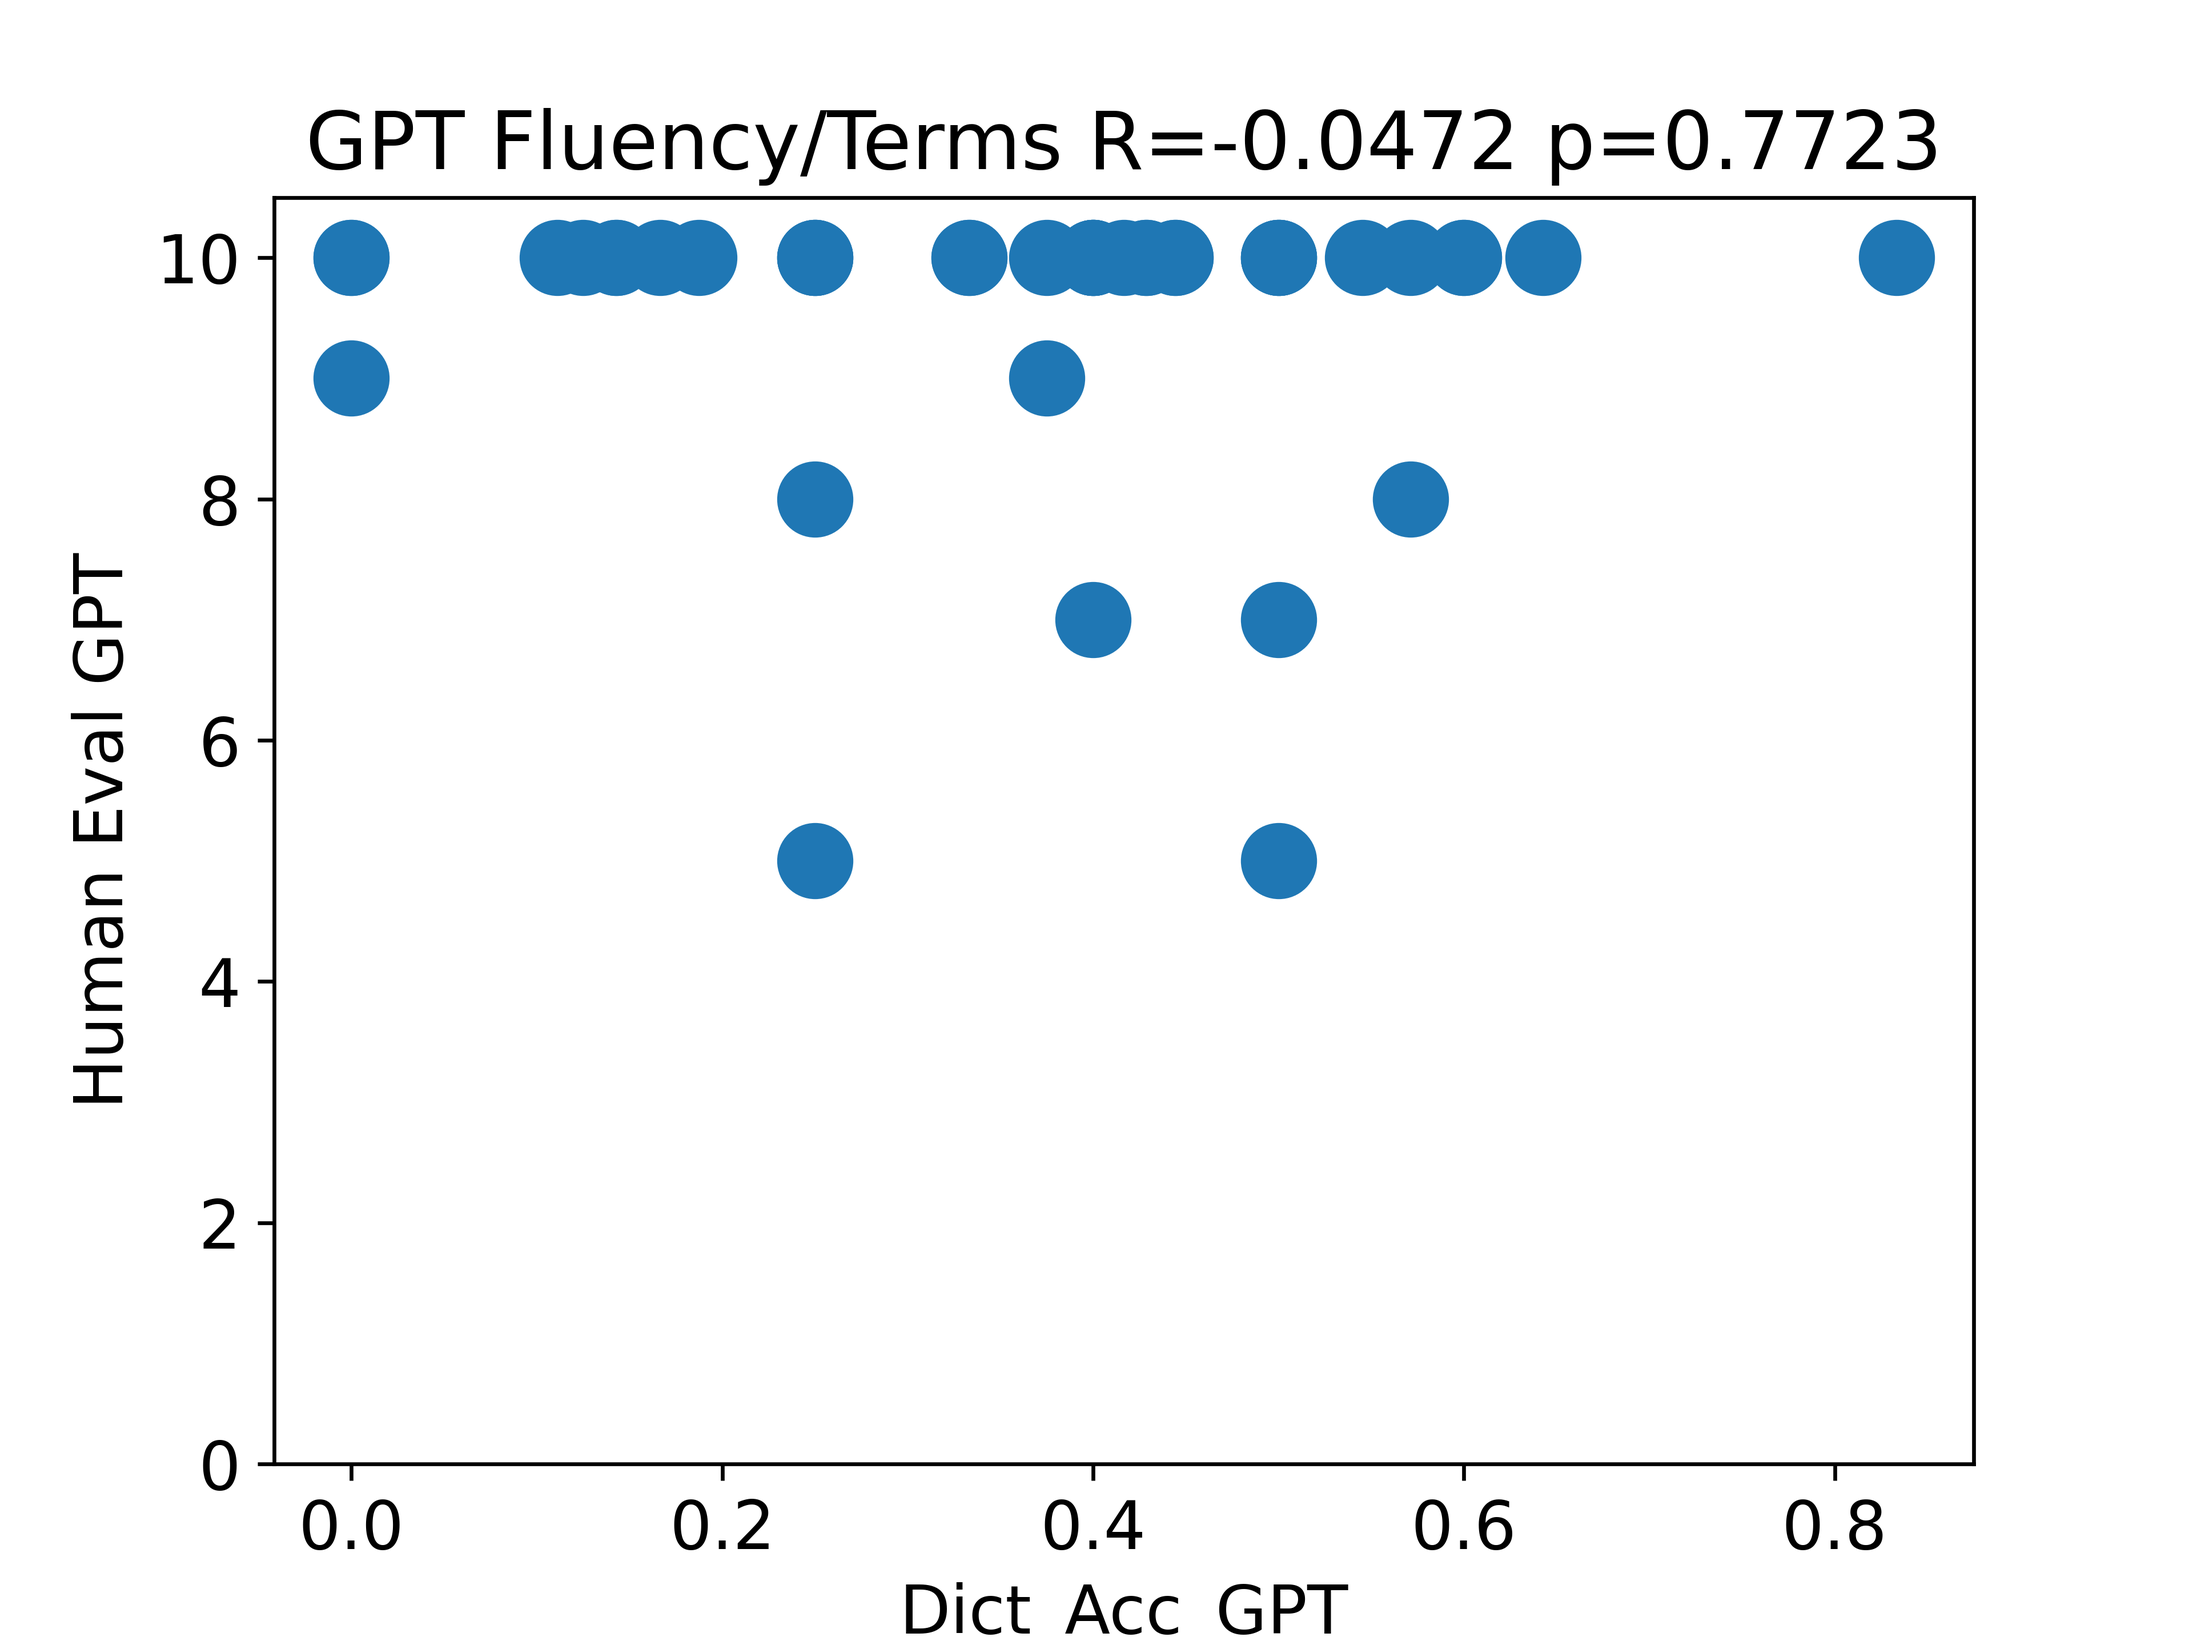
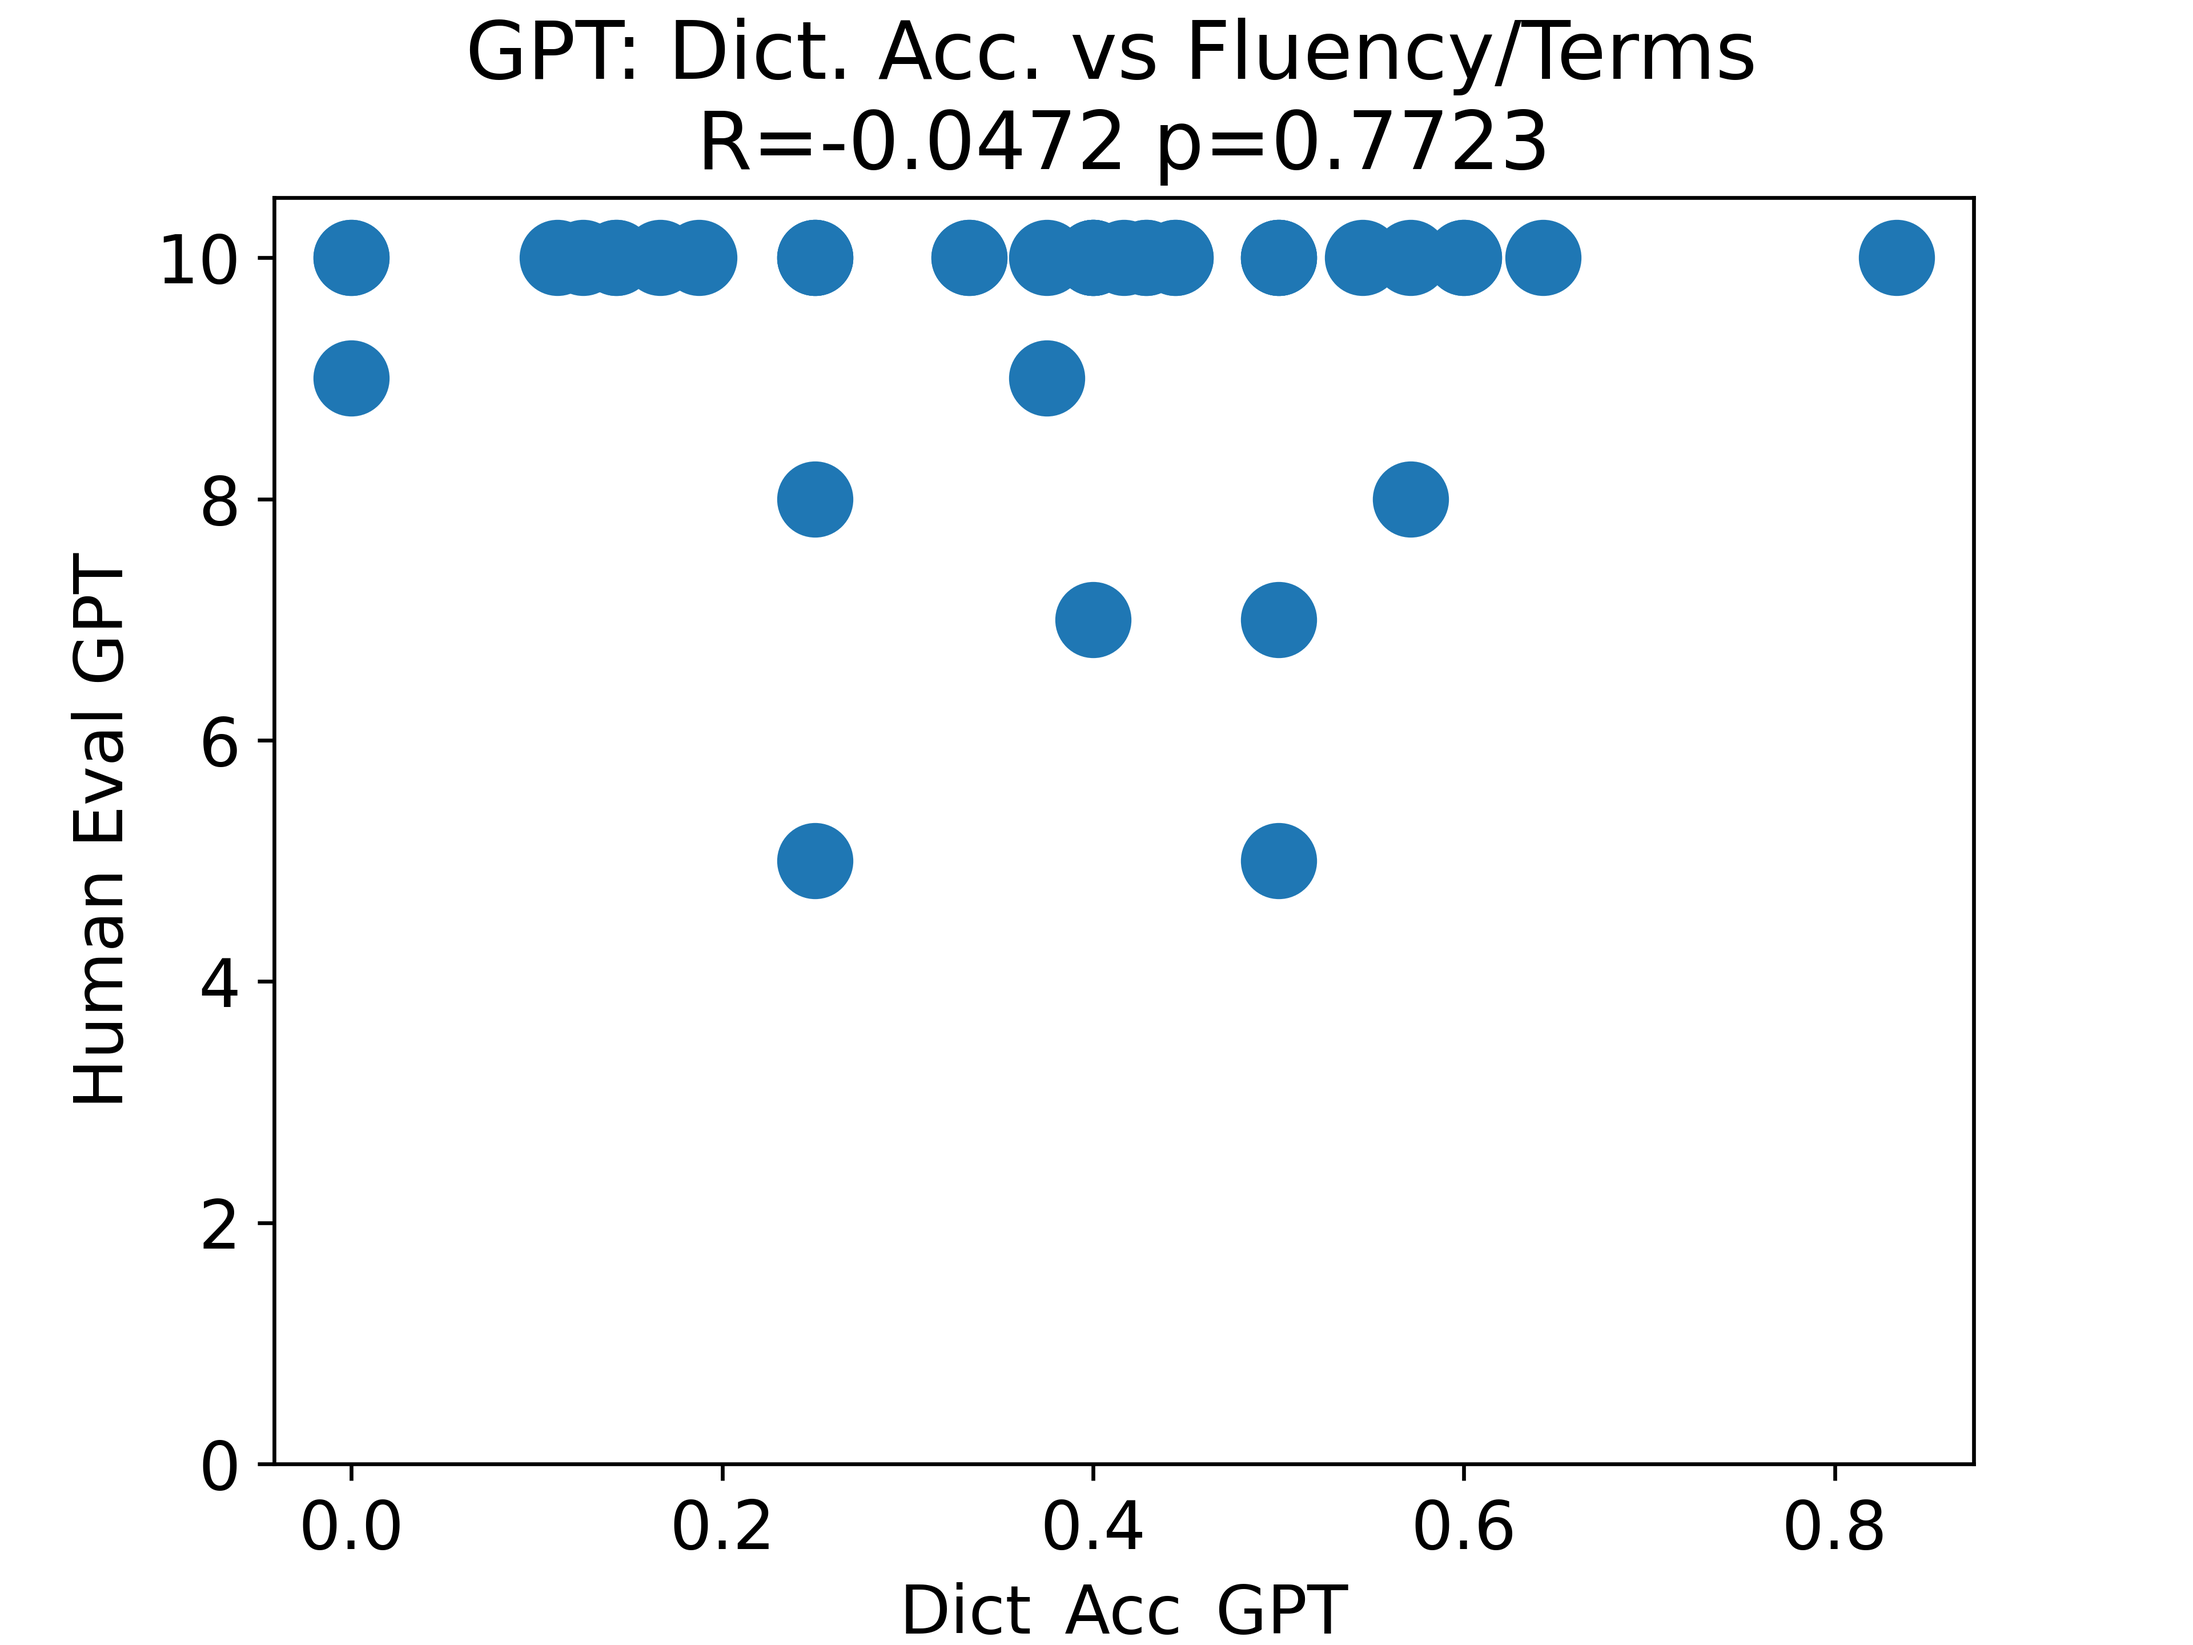
correlations between dictionary accuracy and BLEU

Changed region(s): [[0.125, 0.0, 0.9062, 0.125]]

diff --git a/correlation.py b/correlation.py
@@ -8,20 +8,21 @@ import matplotlib.pyplot as plt
 from helpers import GOOGLE, M2M, CHATGPT
 
 input_paths = {
-    GOOGLE: f'output/{GOOGLE}_dict_acc.csv',
-    M2M: f'output/{M2M}_dict_acc.csv',
-    CHATGPT: f'output/{CHATGPT}_dict_acc.csv'
+    GOOGLE: f'output/{GOOGLE}_dict_acc_bleu.csv',
+    M2M: f'output/{M2M}_dict_acc_bleu.csv',
+    CHATGPT: f'output/{CHATGPT}_dict_acc_bleu.csv'
 }
 
 def get_col_map(name):
     return {"Chinese": f"Chinese_{name}",
             "Terms": f"Terms_{name}",
             "Correct Terms": f"Correct_Terms_{name}", 
-            "Dictionary Accuracy": f"Dict_Acc_{name}"}
+            "Dictionary Accuracy": f"Dict_Acc_{name}",
+            "BLEU": f"BLEU_{name}"}
 
 def get_df(name, nickname):
     df = pd.read_csv(input_paths[name])
-    # df = df[['English', 'Chinese', 'Dictionary Accuracy']]
+    df = df[['English', 'Chinese', 'Dictionary Accuracy', 'BLEU']]
     df = df.rename(columns=get_col_map(nickname))
     return df
 
@@ -54,24 +55,32 @@ df = merge(df, google_eval)
 df = merge(df, m2m_eval)
 df = merge(df, gpt_eval)
 
-def plot_pearson(col1, col2, name, aspect, ymax=10.5):
+def plot_pearson(col1, col2, name, aspect, ymax=10.5, small=False):
     df_no_nan = df[df[col1].notna()]
     df_no_nan = df_no_nan[df_no_nan[col2].notna()]
     pearson = pearsonr(df_no_nan[col1], df_no_nan[col2])
 
-    plt.rcParams.update({'font.size': 14})
+    size = 10
+    if small:
+        plt.rcParams.update({'font.size': 14})
+        size = 225
 
-    plt.scatter(df_no_nan[col1], df_no_nan[col2], s=225)
+    plt.scatter(df_no_nan[col1], df_no_nan[col2], s=size)
     plt.xlabel(col1)
     plt.ylabel(col2)
     plt.ylim((0,ymax))
-    plt.title(f"{name} {aspect} R={pearson.statistic:0.4f} p={pearson.pvalue:0.4f}")
+    plt.title(f"{name}: Dictionary Accuracy vs {aspect} \nR={pearson.statistic:0.4f} p={pearson.pvalue:0.4f}")
     plt.savefig(f'plots/{col1}_vs_{col2}.png', dpi=600)
     plt.show()
     plt.close()
 
-plot_pearson('Dict_Acc_Google', 'Human Eval Google', "Google", 'Fluency/Terms')
-plot_pearson('Dict_Acc_M2M', 'Human Eval M2M', "M2M", 'Fluency')
-plot_pearson('Dict_Acc_M2M', 'Human Eval Medical M2M', 'M2M', 'Terms', ymax=5.3)
-plot_pearson('Dict_Acc_GPT', 'Human Eval GPT', 'GPT', 'Fluency/Terms')
+# plot_pearson('Dict_Acc_Google', 'Human Eval Google', "Google", 'Fluency/Terms')
+# plot_pearson('Dict_Acc_M2M', 'Human Eval M2M', "M2M", 'Fluency')
+# plot_pearson('Dict_Acc_M2M', 'Human Eval Medical M2M', 'M2M', 'Terms', ymax=5.3)
+# plot_pearson('Dict_Acc_GPT', 'Human Eval GPT', 'GPT', 'Fluency/Terms')
 # plot_pearson('Dict_Acc_GPT', 'Human Eval Medical GPT', 'GPT', 'Terms', ymax=5.3)
+
+ymax = 1.25
+plot_pearson('Dict_Acc_Google', 'BLEU_Google', 'Google', 'BLEU', ymax=ymax)
+plot_pearson('Dict_Acc_M2M', 'BLEU_M2M', 'M2M', 'BLEU', ymax=ymax)
+plot_pearson('Dict_Acc_GPT', 'BLEU_GPT', 'GPT', 'BLEU', ymax=ymax)

diff --git a/evaluate.py b/evaluate.py
@@ -13,8 +13,8 @@ from helpers import *
 from nltk.translate.bleu_score import sentence_bleu, SmoothingFunction
 
 paths = {
-    # GOOGLE: 'output/google_translations.csv',
-    # M2M: 'output/m2m100_translations.csv',
+    GOOGLE: 'output/google_translations.csv',
+    M2M: 'output/m2m100_translations.csv',
     CHATGPT: 'output/gpt_translations.csv'
 }
 
